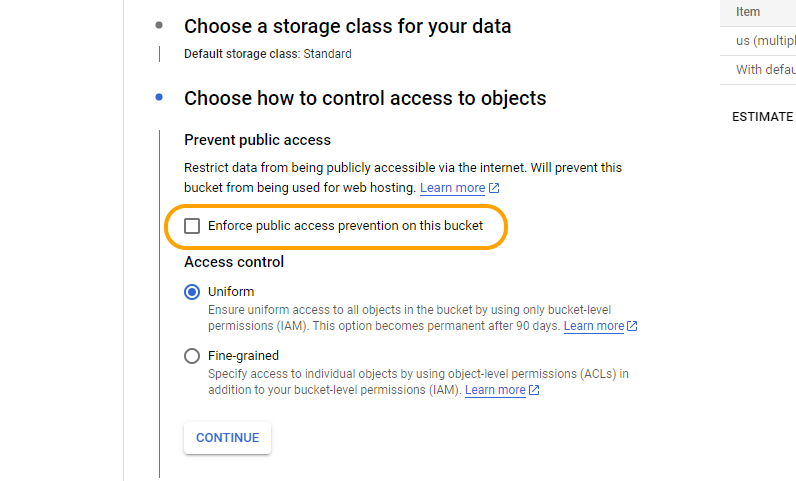
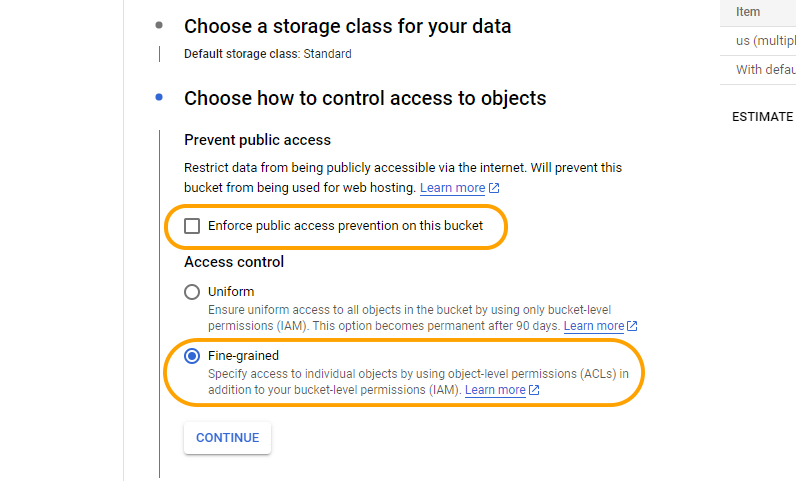
GITBOOK-79: change request with no subject merged in GitBook

diff --git a/documentation/cloud-blogs/cloud-blogs-settings/google-cloud-setup.md b/documentation/cloud-blogs/cloud-blogs-settings/google-cloud-setup.md
@@ -28,11 +28,11 @@ Give a name for your bucket and click "**Continue**" button.&#x20;
 
 <figure><img src="../../../.gitbook/assets/Google 4.jpg" alt=""><figcaption></figcaption></figure>
 
-Continue by setting the next options based on your preference. On the step "**Choose how to control access objects**", on **Access control** set "**Uniform**" and continue.&#x20;
+Continue by setting the next options based on your preference. On the step "**Choose how to control access objects**", on **Access control** set "**Fine-grained**" and continue.&#x20;
 
 The option "**Enforce public access prevention on this bucket**" must be unchecked (disabled).
 
-<figure><img src="../../../.gitbook/assets/Google 5 (2).jpg" alt=""><figcaption></figcaption></figure>
+<figure><img src="../../../.gitbook/assets/Google 5.jpg" alt=""><figcaption></figcaption></figure>
 
 {% hint style="info" %}
 The option "**Enforce access prevention on this bucket**" must be **unchecked/disabled** as shown on the image below. If you have this enabled, it **will not work** for SEO Neo.

diff --git a/documentation/cloud-blogs/cloud-blogs-generator.md b/documentation/cloud-blogs/cloud-blogs-generator.md
@@ -49,7 +49,7 @@ To upload your own image from a file, select the second option and then click on
 <figure><img src="../../.gitbook/assets/cloud blog generator - logo file.jpg" alt=""><figcaption></figcaption></figure>
 
 {% hint style="info" %}
-Your logo image must be .jpeg, .jpg, .png or .gif type. Maximum size for file is 5 MB
+Your logo image must be **.jpeg**, **.jpg**, **.png** or **.gif** type. Maximum size for file is 5 MB
 {% endhint %}
 
 ### Cover Image
